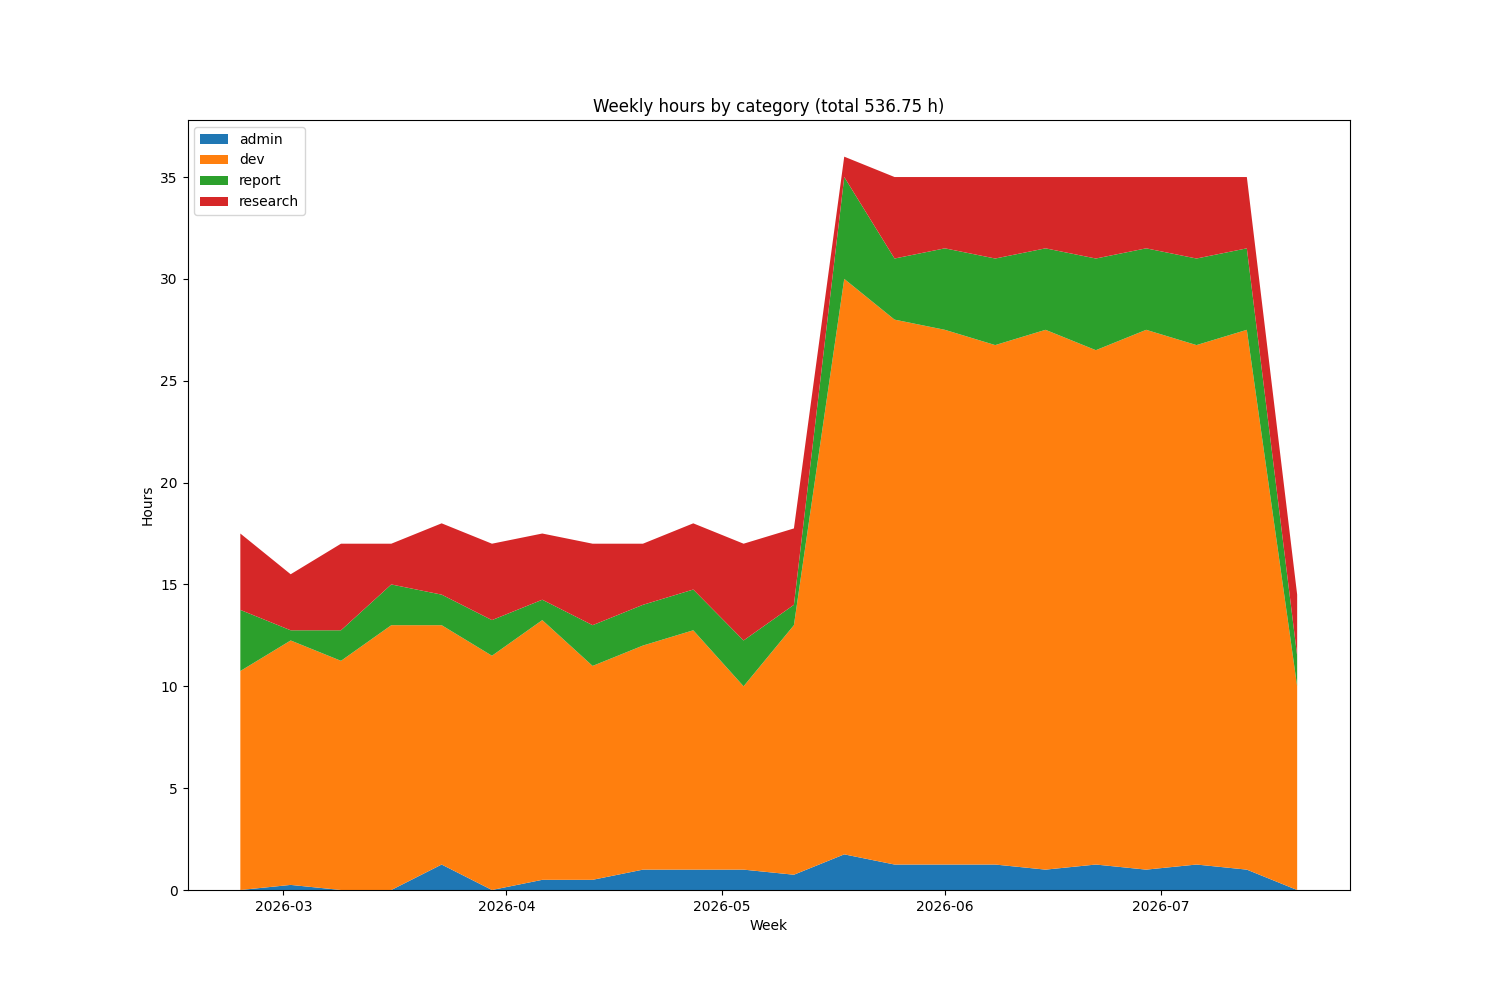
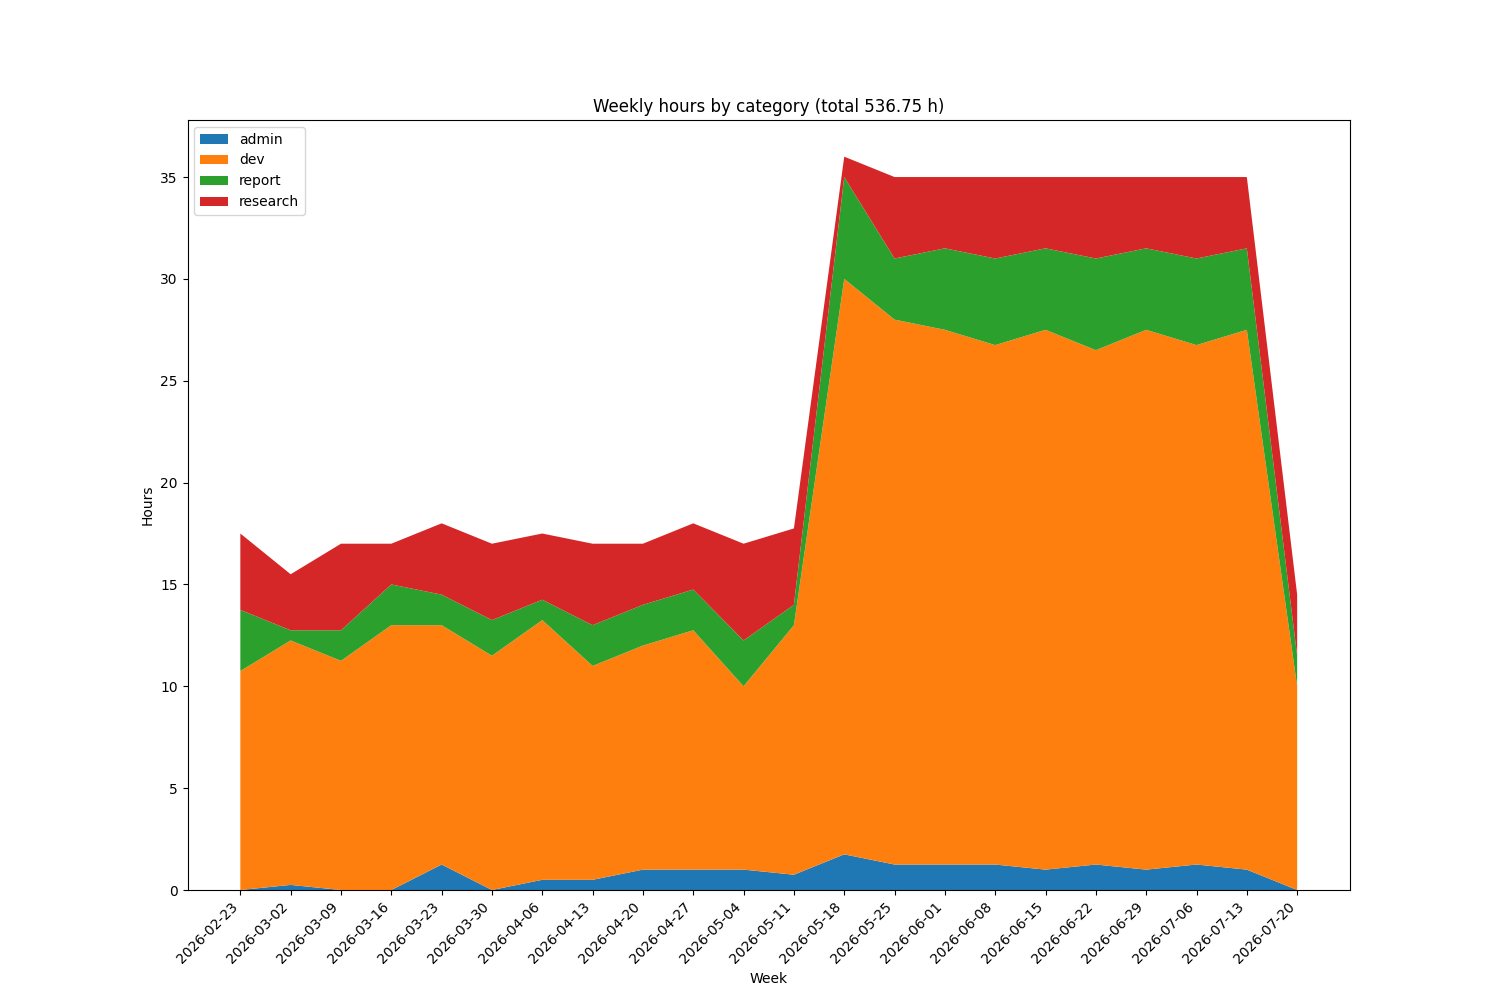
feat: update visualisation

Changed region(s): [[0.1227, 0.899, 0.8587, 0.992]]

diff --git a/main.py b/main.py
@@ -61,5 +61,10 @@ if __name__ == '__main__':
     ax.set_title(f"Weekly hours by category (total {df['duration_hours'].sum():.2f} h)")
     ax.set_xlabel("Week")
     ax.set_ylabel("Hours")
+    ax.set_xticks(weekly_df_pivoted.index.to_pydatetime())
+
+    for label in ax.get_xticklabels():
+        label.set_rotation(45)
+        label.set_ha("right")
 
     fig.savefig(dest_path)
